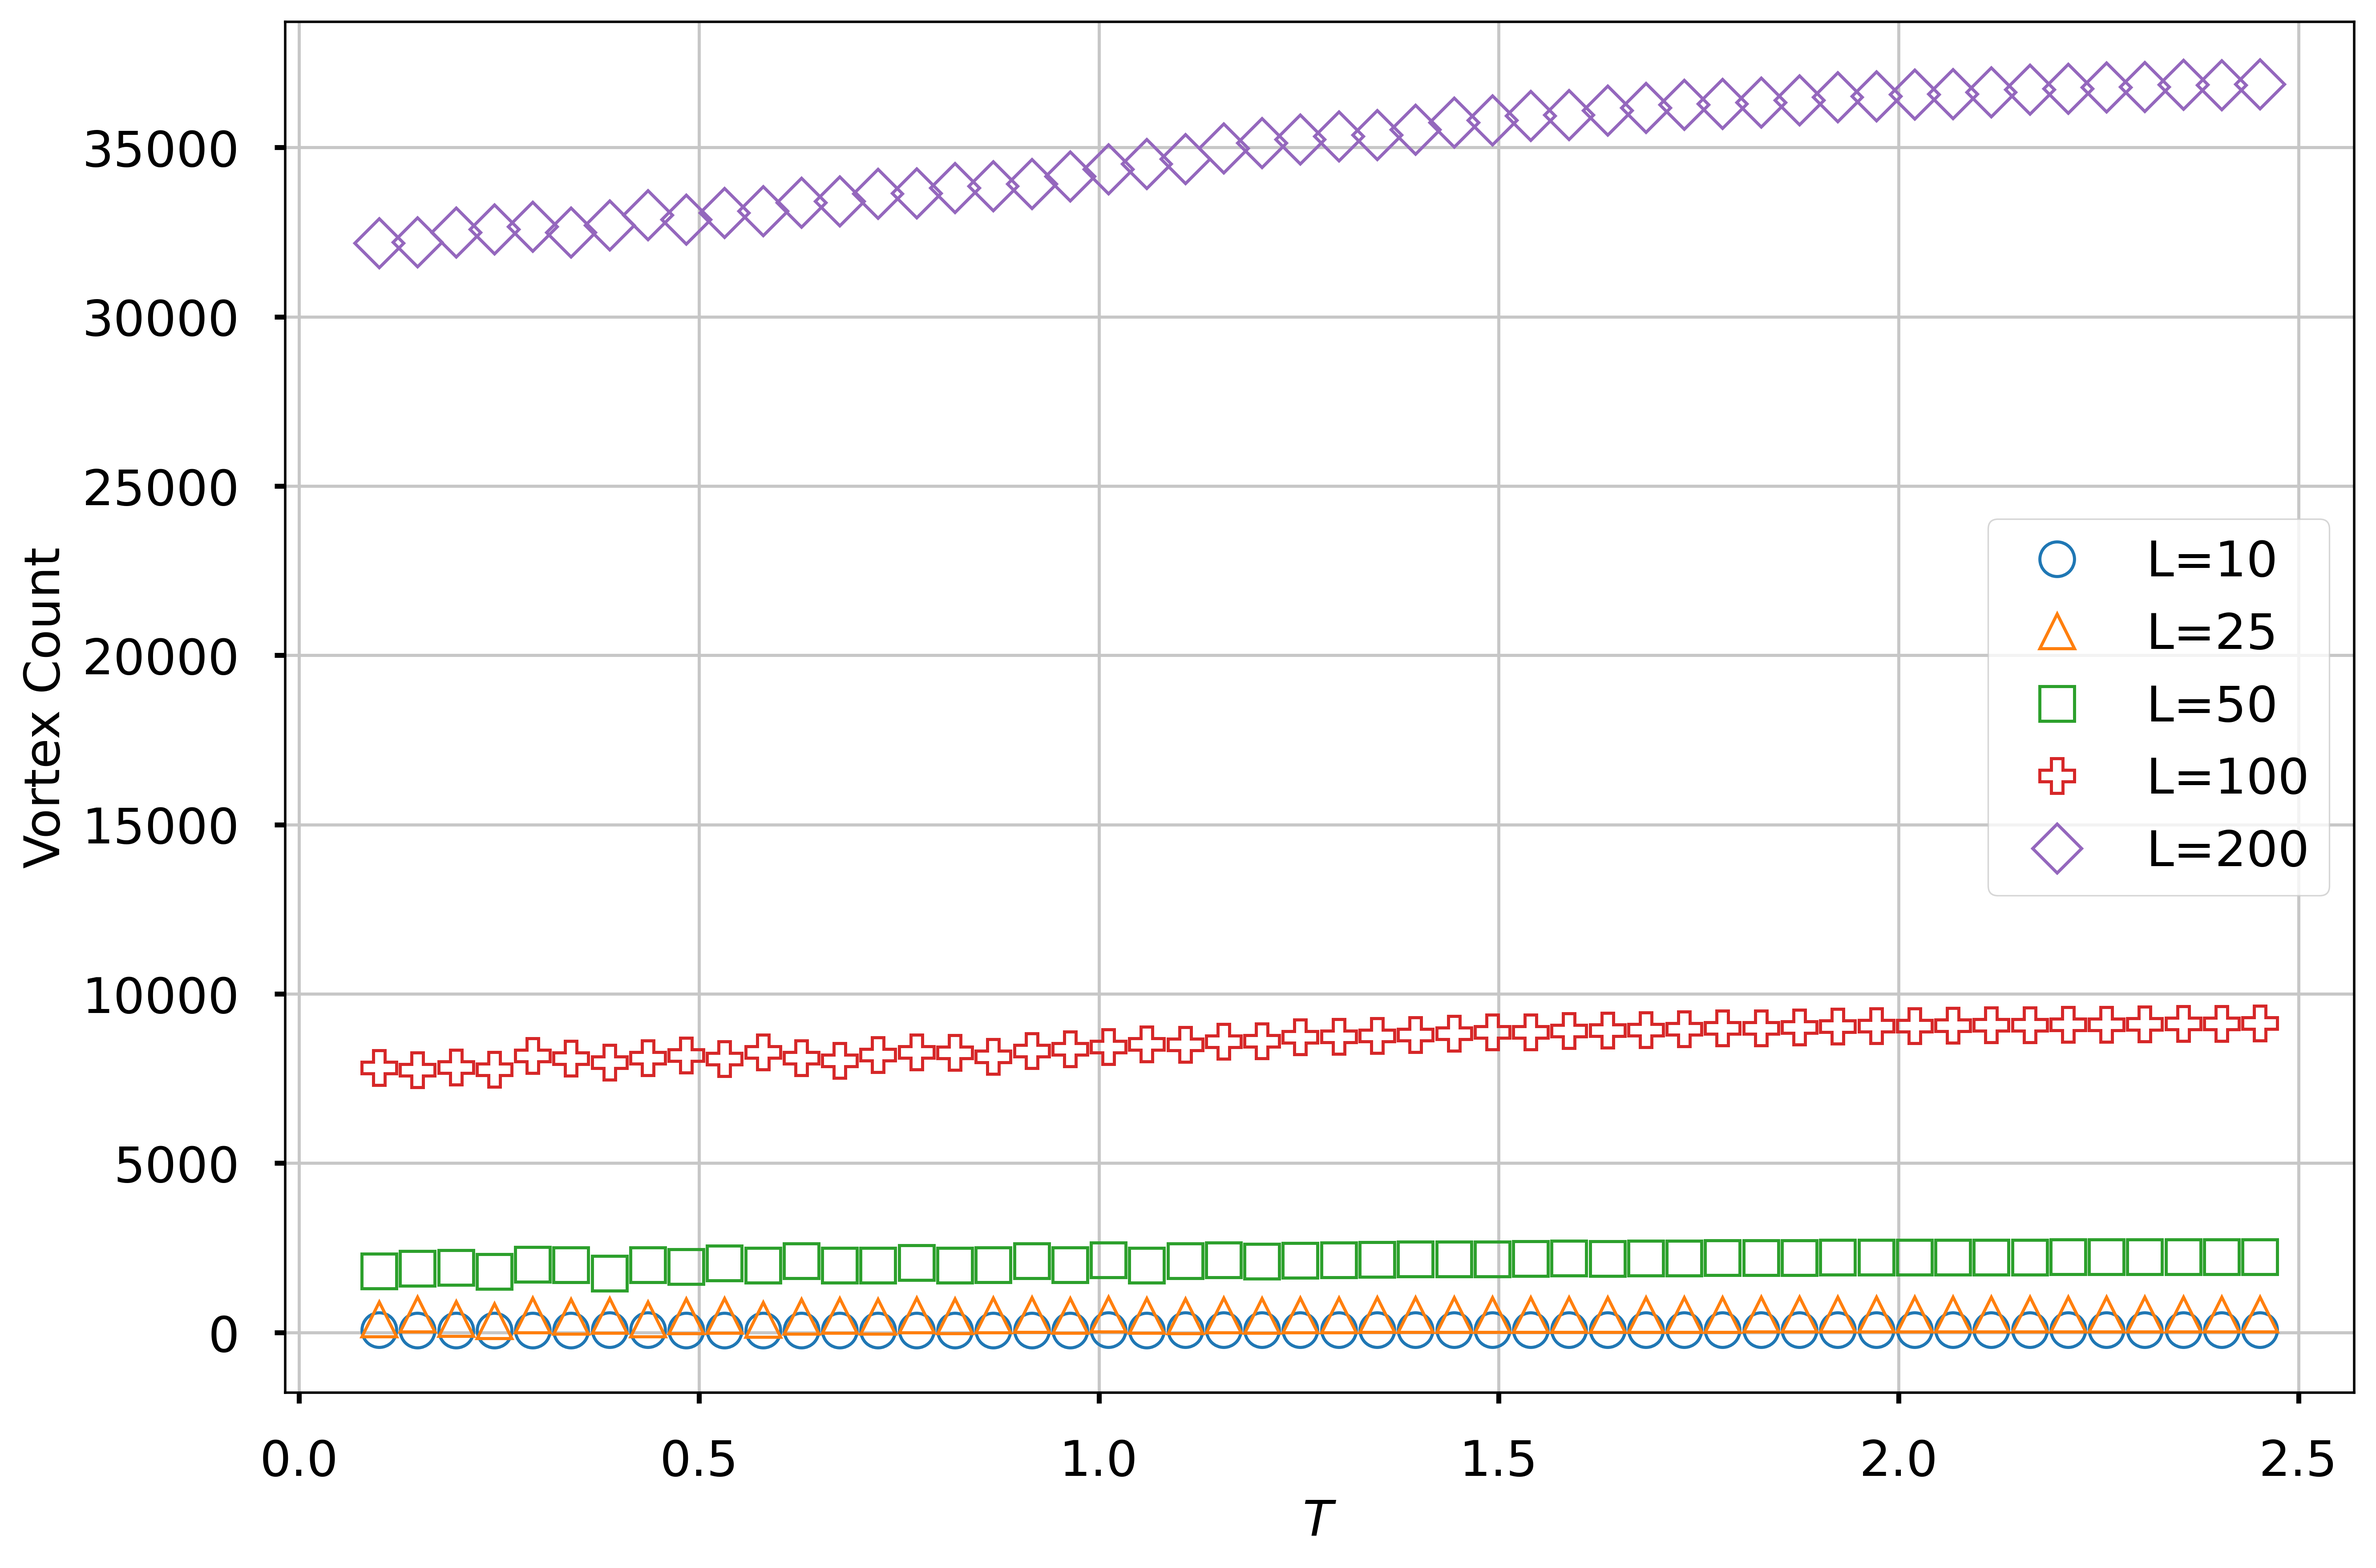
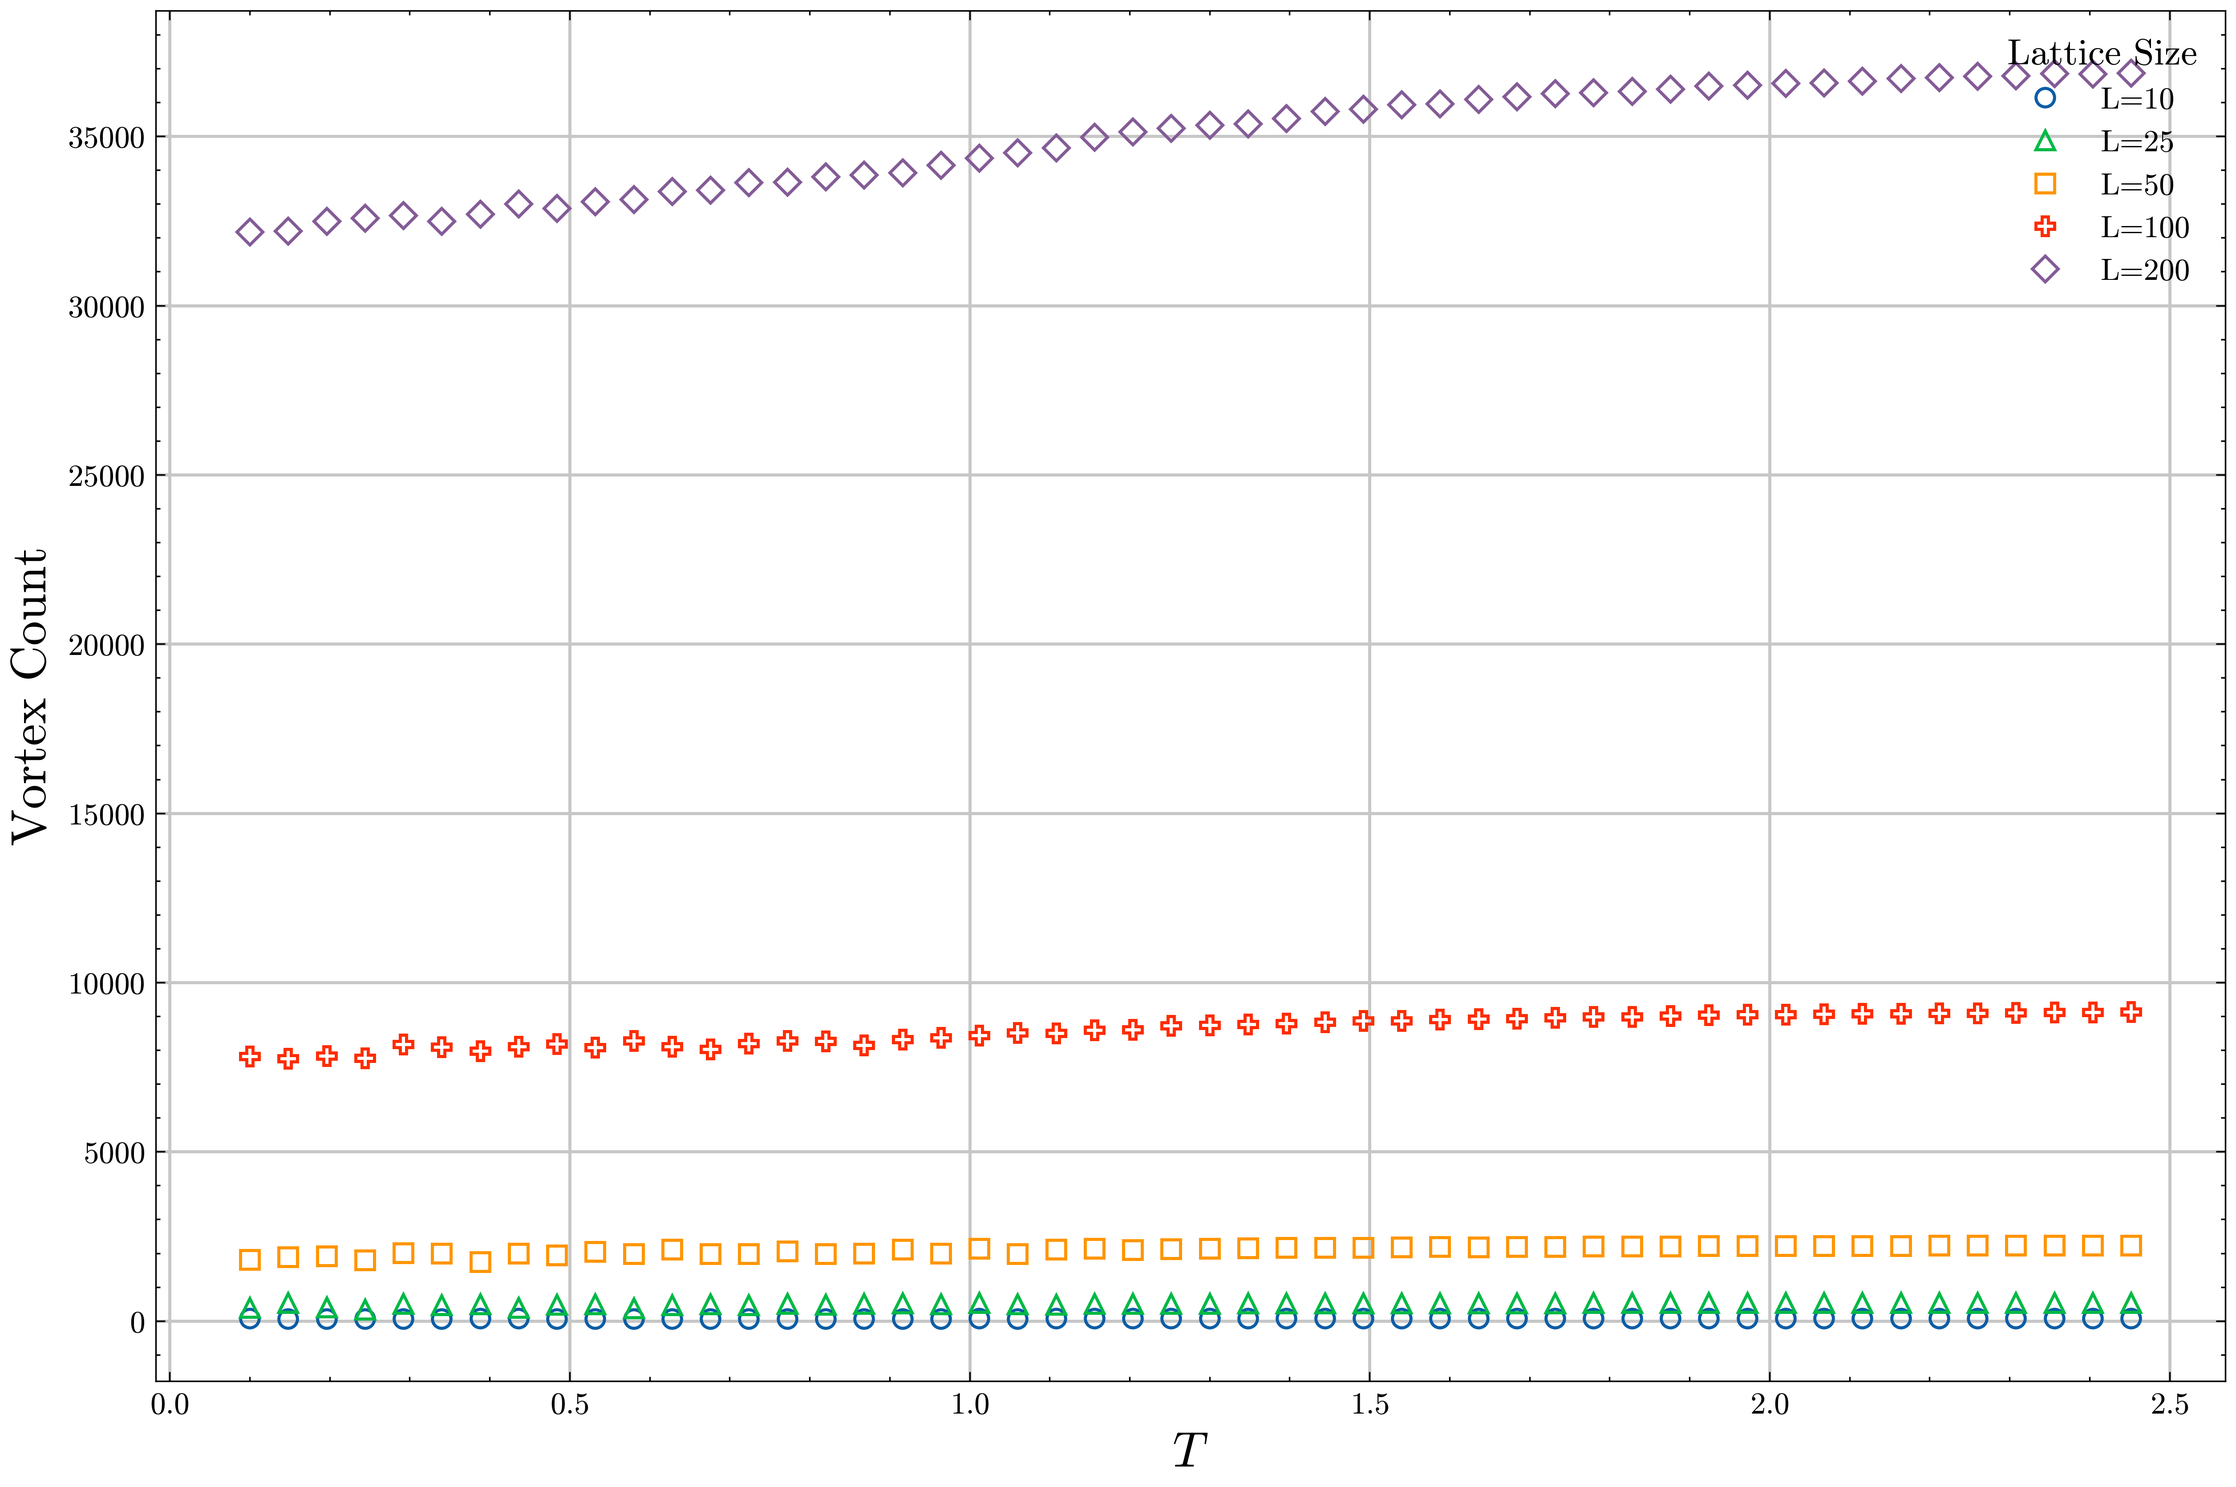
plots

diff --git a/combinedplot.py b/combinedplot.py
@@ -2,7 +2,8 @@ import sqlite3
 import numpy as np
 import pandas as pd
 import matplotlib.pyplot as plt
-plt.style.use('seaborn-v0_8-poster')
+import scienceplots
+plt.style.use(['science','no-latex'])
 
 # Connect to SQLite database
 db_path = './data/xy_model.db'
@@ -38,14 +39,14 @@ for i, L in enumerate(lattice_sizes):
 label = ['o','^','s','P','D','2','*','p']
 
 # Create a 2x2 subplot grid
-fig, axs = plt.subplots(2, 2, figsize=(16, 12))
+fig, axs = plt.subplots(2, 2, figsize=(12, 12))
 
 # Plot energy vs. temperature
 for i, L in enumerate(lattice_sizes):
     axs[0, 0].plot(T_range, energy_data[L], label=f'L={L}', marker=f'{label[i]}', markerfacecolor='none', markeredgewidth=1.0, linestyle='none')
 axs[0, 0].set_xlabel("$T$", fontsize=16)
 axs[0, 0].set_ylabel("$E$", fontsize=16)
-axs[0, 0].legend(loc='upper left')
+axs[0, 0].legend(title='Lattice Size', title_fontsize=12)
 axs[0, 0].grid(True, linewidth=1, color='#c7c7c7')
 axs[0, 0].set_title("Energy vs. Temperature")
 
@@ -55,7 +56,7 @@ for i, L in enumerate(lattice_sizes):
 axs[0, 1].set_xlabel("$T$", fontsize=16)
 axs[0, 1].set_ylabel("$M$", fontsize=16)
 axs[0, 1].grid(True, linewidth=1, color='#c7c7c7')
-axs[0, 1].legend()
+axs[0, 1].legend(title='Lattice Size', title_fontsize=12)
 axs[0, 1].set_title("Magnetization vs. Temperature")
 
 # Plot susceptibility vs. temperature (log scale)
@@ -64,17 +65,17 @@ for i, L in enumerate(lattice_sizes):
 axs[1, 0].set_xlabel("$T$", fontsize=16)
 axs[1, 0].set_ylabel("$S$", fontsize=16)
 axs[1, 0].grid(True, linewidth=1, color='#c7c7c7')
-axs[1, 0].legend()
+axs[1, 0].legend(title='Lattice Size', title_fontsize=12)
 axs[1, 0].set_yscale('log')
-axs[1, 0].set_title("Susceptibility vs. Temperature (log scale)")
+axs[1, 0].set_title("Susceptibility vs. Temperature")
 
 # Plot vortex count vs. temperature
 for i, L in enumerate(lattice_sizes):
     axs[1, 1].plot(T_range, vortex_data[L], label=f'L={L}', marker=f'{label[i]}', markerfacecolor='none', markeredgewidth=1.0, linestyle='none')
 axs[1, 1].set_xlabel("$T$", fontsize=16)
-axs[1, 1].set_ylabel("Vortex Count", fontsize=16)
+axs[1, 1].set_ylabel("$V$", fontsize=16)
 axs[1, 1].grid(True, linewidth=1, color='#c7c7c7')
-axs[1, 1].legend()
+axs[1, 1].legend(title='Lattice Size', title_fontsize=12)
 axs[1, 1].set_title("Vortex Count vs. Temperature")
 
 # Adjust layout and save the figure

diff --git a/plot.py b/plot.py
@@ -2,7 +2,9 @@ import sqlite3
 import numpy as np
 import pandas as pd
 import matplotlib.pyplot as plt
-plt.style.use('seaborn-v0_8-poster')
+import scienceplots
+plt.style.use(['science','no-latex'])
+#plt.style.use('seaborn-v0_8-poster')
 
 # Connect to SQLite database
 db_path = './data/xy_model.db'
@@ -42,7 +44,7 @@ for i, L in enumerate(lattice_sizes):
     plt.plot(T_range, energy_data[L], label=f'L={L}', marker=f'{label[i]}', markerfacecolor='none', markeredgewidth=1.0, linestyle='none')
 plt.xlabel("$T$", fontsize=16)
 plt.ylabel("$E$", fontsize=16)
-plt.legend(loc='upper left')
+plt.legend(loc='upper left', title='Lattice Size', title_fontsize=12)
 plt.grid(True, linewidth=1, color='#c7c7c7')
 plt.savefig("plots/energy_v_t.png", dpi=500, bbox_inches='tight')
 plt.show()
@@ -54,7 +56,7 @@ for i, L in enumerate(lattice_sizes):
 plt.xlabel("$T$", fontsize=16)
 plt.ylabel("$M$", fontsize=16)
 plt.grid(True, linewidth=1, color='#c7c7c7')
-plt.legend()
+plt.legend(loc='upper right', title='Lattice Size', title_fontsize=12)
 plt.savefig("plots/mag_v_t.png", dpi=500, bbox_inches='tight')
 plt.show()
 
@@ -65,7 +67,7 @@ for i, L in enumerate(lattice_sizes):
 plt.xlabel("$T$", fontsize=16)
 plt.ylabel("$S$", fontsize=16)
 plt.grid(True, linewidth=1, color='#c7c7c7')
-plt.legend()
+plt.legend(loc='upper right', title='Lattice Size', title_fontsize=12)
 plt.yscale('log')
 plt.savefig("plots/sus_v_t.png", dpi=500, bbox_inches='tight')
 plt.show()
@@ -77,6 +79,6 @@ for i, L in enumerate(lattice_sizes):
 plt.xlabel("$T$", fontsize=16)
 plt.ylabel("Vortex Count", fontsize=16)
 plt.grid(True, linewidth=1, color='#c7c7c7')
-plt.legend()
+plt.legend(loc='upper right', title='Lattice Size', title_fontsize=12)
 plt.savefig("plots/vortex_v_t.png", dpi=500, bbox_inches='tight')
 plt.show()
